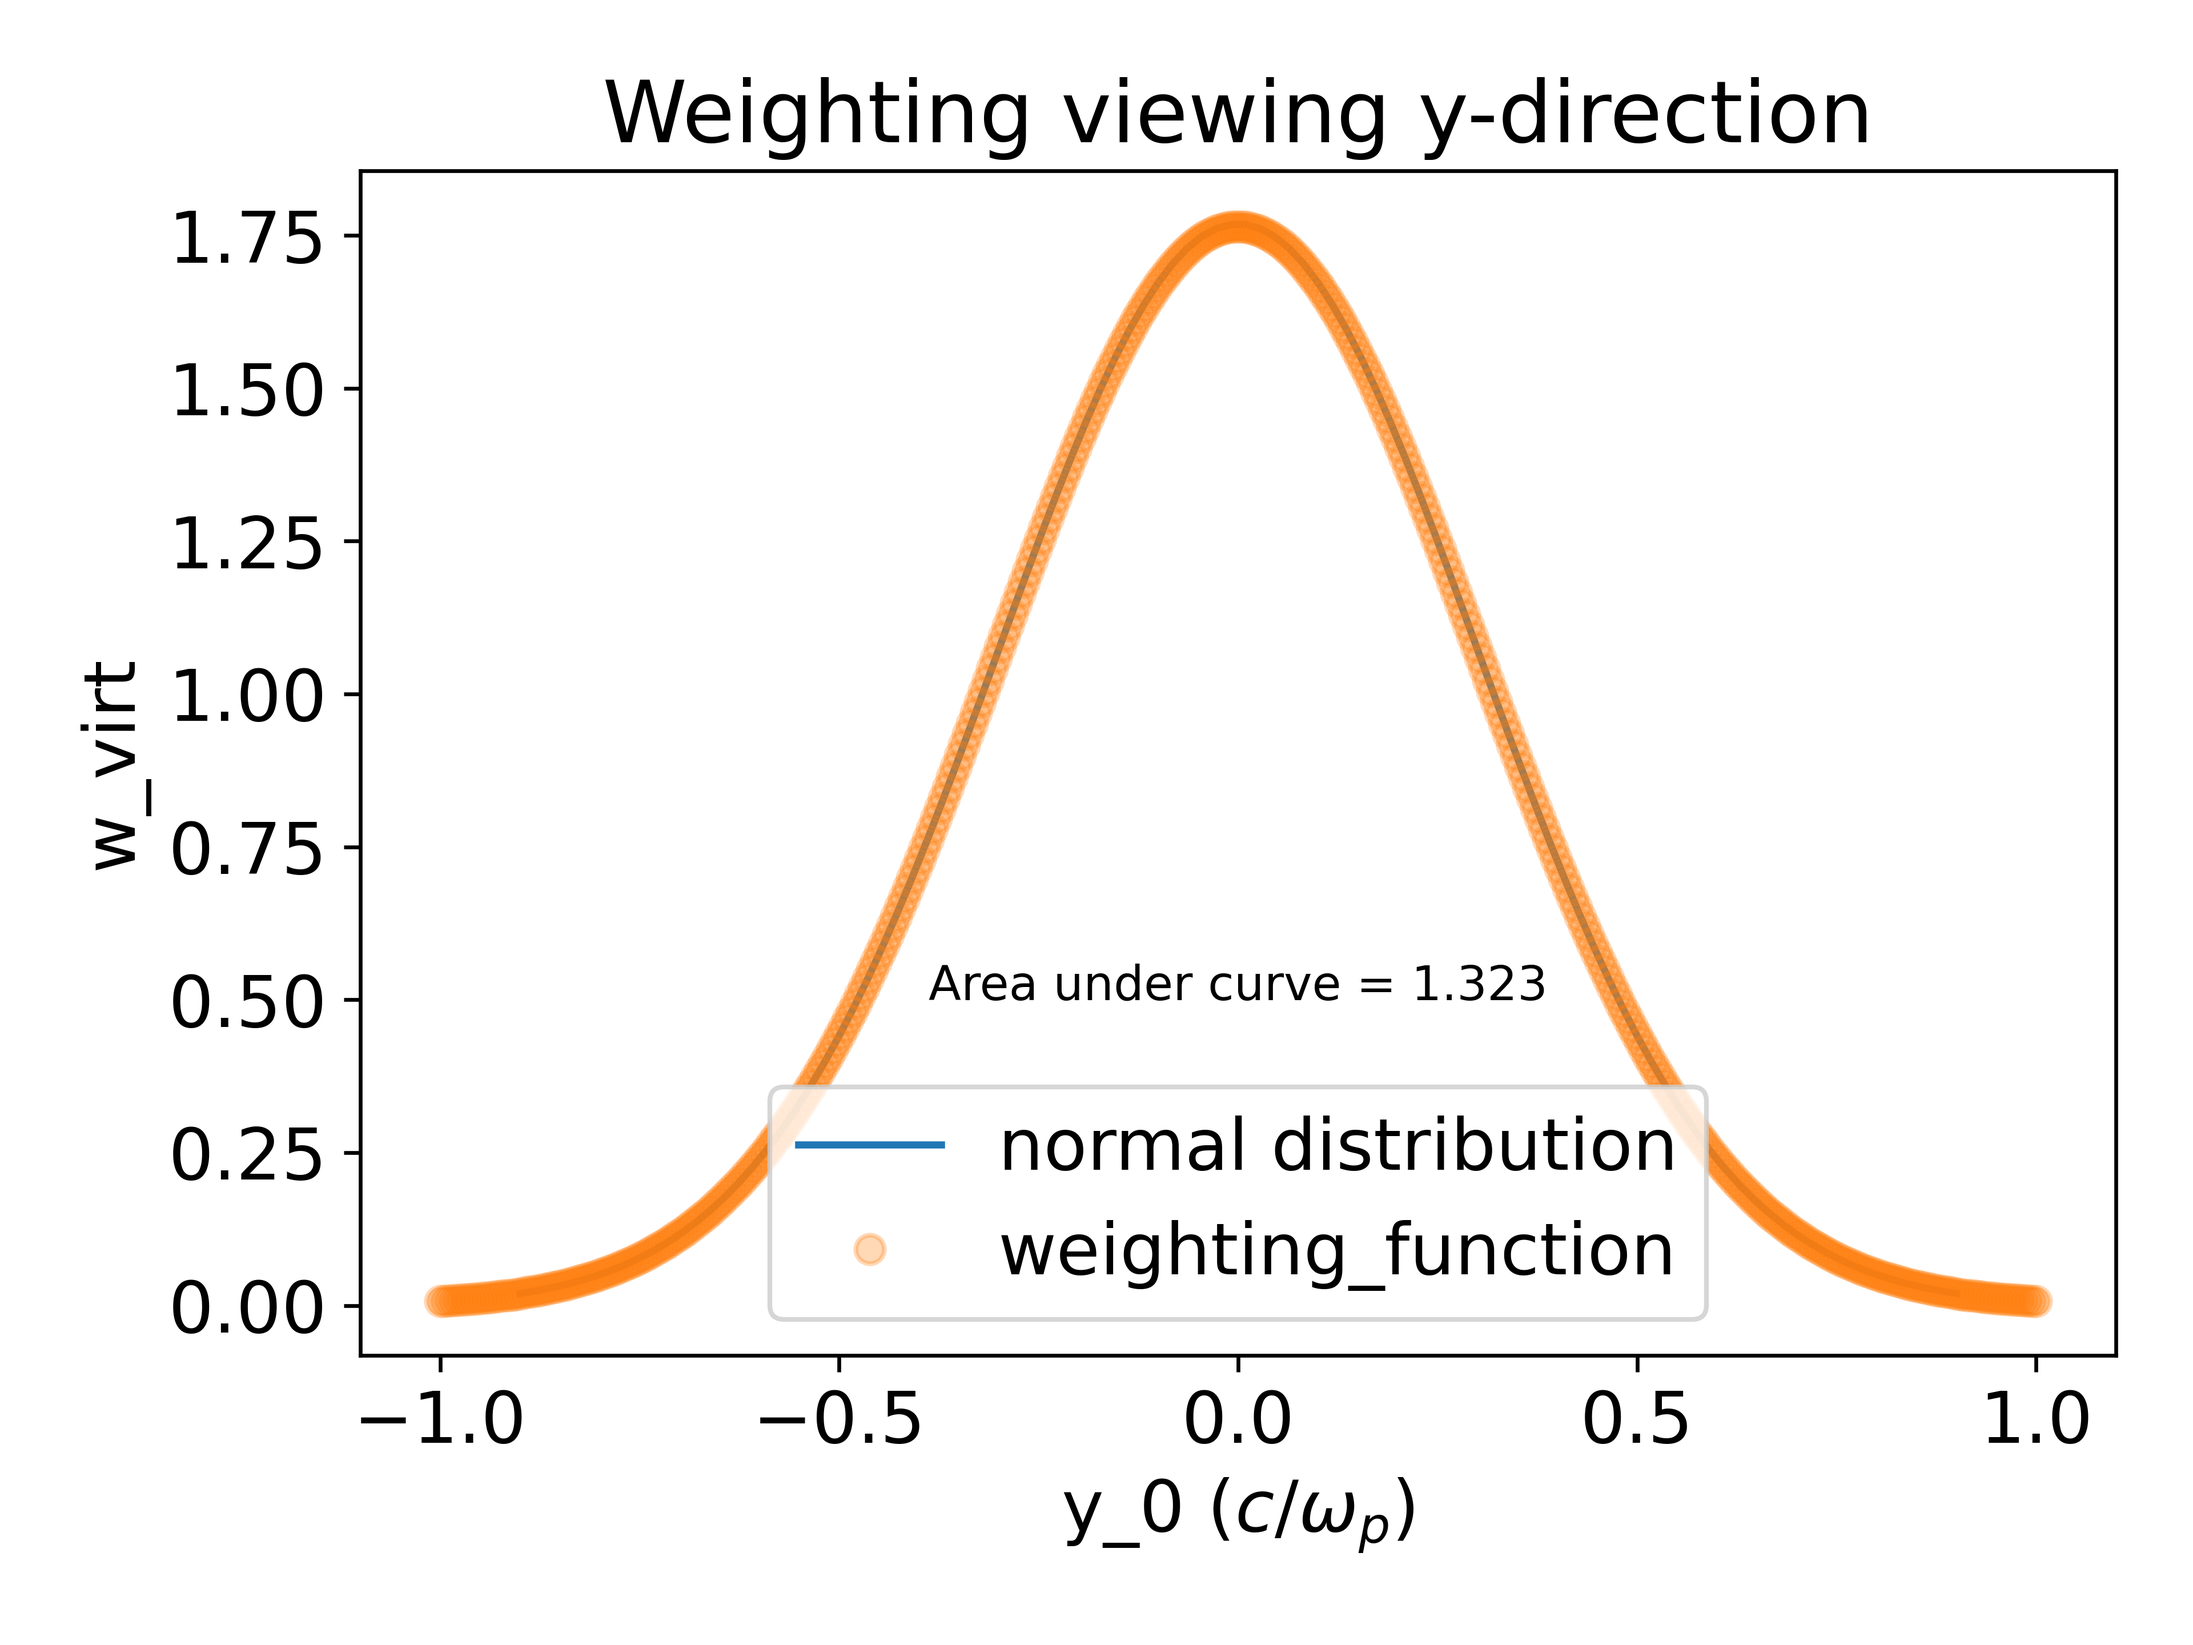
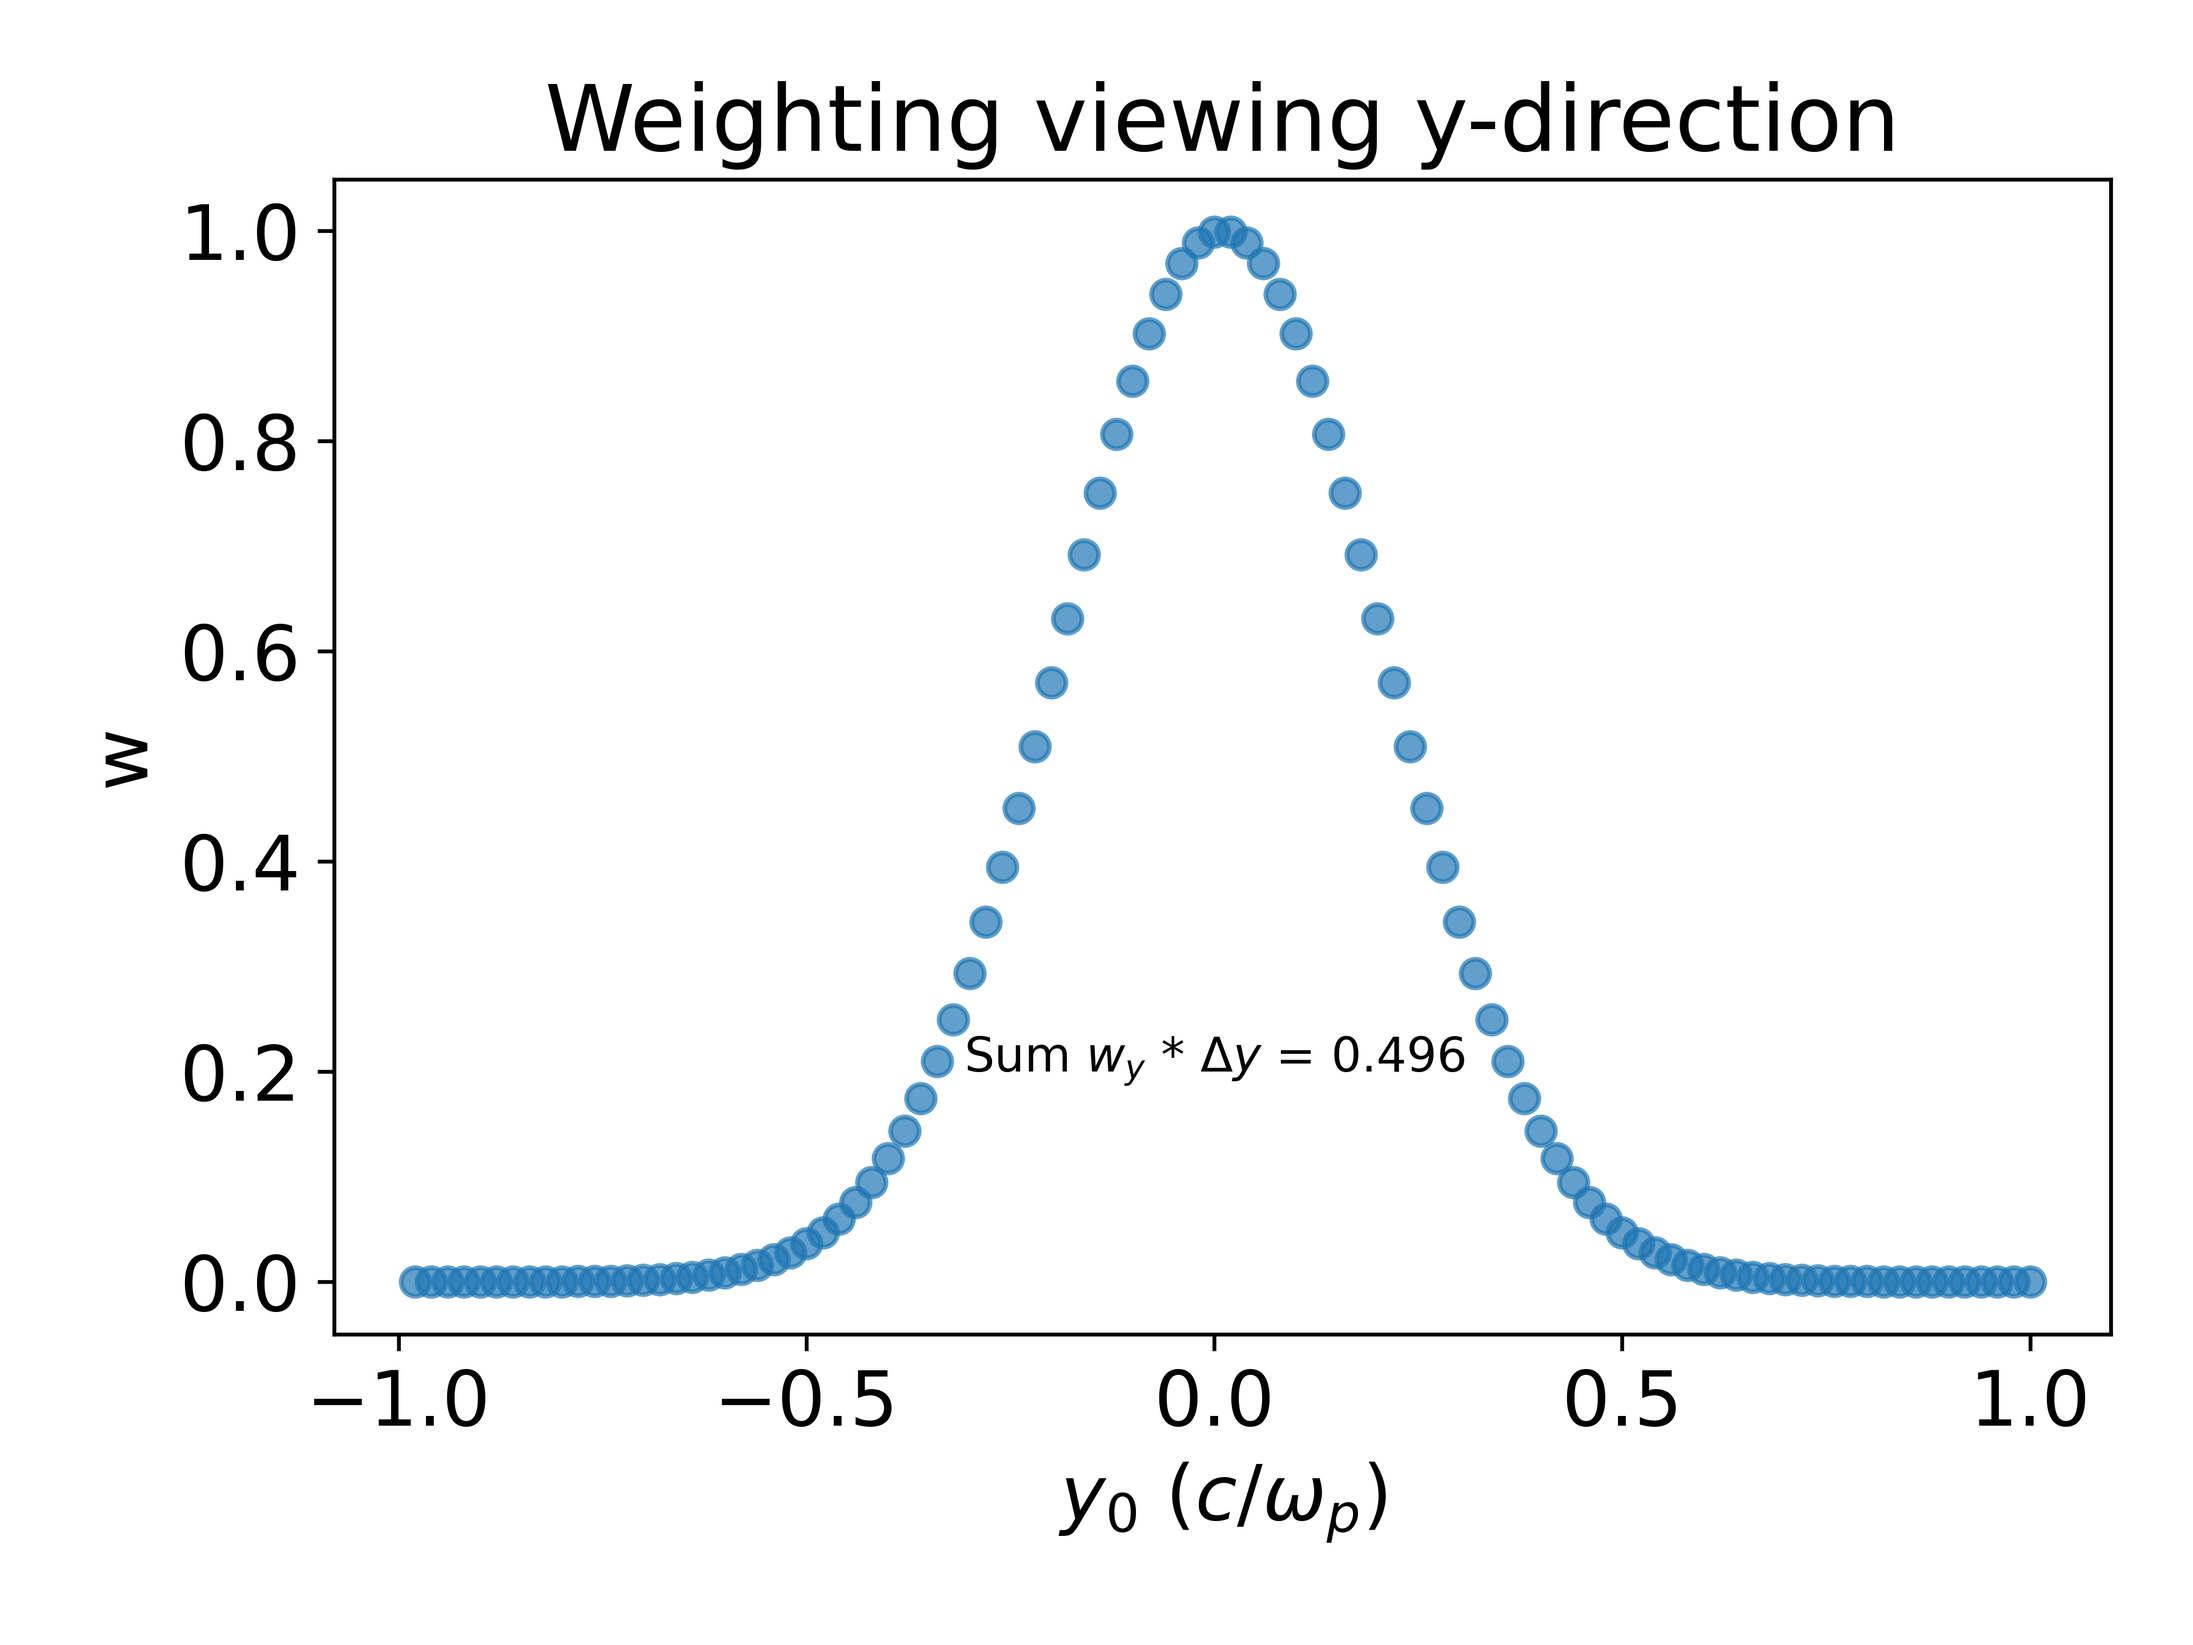
Update to new weighting
Fixes bug with new weighting and masking code. Gaussian weighting appears to be working now. Test 000050 is a 100x100x100 test to use for testing new weighting.

IMPORTANT: movieWriter references have been commented out due to the lack of opencv package on current machine.

diff --git a/include/plotWeights.py b/include/plotWeights.py
@@ -11,7 +11,6 @@ import math
 import copy
 import time
 import progressbar
-import include.movieWriter as movieWriter
 import multiprocessing as mp
 import include.simulations.useQuasi3D as sim
 mpl.use('Agg')
@@ -42,20 +41,20 @@ def returnZ(xi):
 
 
 
-def plotx(w, x_0, y_0, xi_0, z_0, s1, s2, beamx_c,beamy_c,beamxi_c,sigma_x,sigma_y,sigma_xi):
+def plotx(w, x_0, y_0, xi_0, z_0, s1, s2, xidensity_, xdensity, ydensity, xidensity):
 # Plot w (w_x) vs xi
     ##########################################################################################
     fig3 = plt.figure()
     ax3 = fig3.add_subplot(111)
-     
-    ax3.plot(xi_0,w,"o", label="weighting_function",alpha=0.7)
+    
+    ax3.plot(xi_0[int(xidensity_*(ydensity/2)+49):int(xidensity_*(ydensity/2)+xidensity_-50)],w,"o", label="weighting_function",alpha=0.7)
     
     #ax3.legend(loc='upper right')
-    ax3.set_xlabel("xi_0 ($c/\omega_p$)")
-    ax3.set_ylabel("w_x")
-    ax3.set_title("Weighting viewing xi-direction")
+    ax3.set_xlabel("$\\xi_0$ ($c/\omega_p$)")
+    ax3.set_ylabel("w")
+    ax3.set_title("Weighting for x viewing $\\xi$-direction")
 
-    Deltax = 2*s2
+    Deltax = 2*s2/xidensity #same as xstep
     summ = 0
     for w_x in w:
         summ += w_x*Deltax
@@ -65,20 +64,20 @@ def plotx(w, x_0, y_0, xi_0, z_0, s1, s2, beamx_c,beamy_c,beamxi_c,sigma_x,sigma
 
     fig3.savefig('weights_x-xi-direction.png',dpi=600,transparent=False)
 
-def ploty(w, x_0, y_0, xi_0, z_0, s1, s2, beamx_c,beamy_c,beamxi_c,sigma_x,sigma_y,sigma_xi):
+def ploty(w, x_0, y_0, xi_0, z_0, s1, s2, xidensity_, xdensity, ydensity, xidensity):
 # Plot w (w_x) vs xi
     ##########################################################################################
     fig4 = plt.figure()
     ax4 = fig4.add_subplot(111)
-     
-    ax4.plot(y_0,w,"o", label="weighting_function",alpha=0.7)
+
+    ax4.plot(y_0[50:len(y_0):xidensity_],w,"o", label="weighting_function",alpha=0.7)
     
     #ax3.legend(loc='upper right')
-    ax4.set_xlabel("y_0 ($c/\omega_p$)")
-    ax4.set_ylabel("w_y")
+    ax4.set_xlabel("$y_0$ ($c/\omega_p$)")
+    ax4.set_ylabel("w")
     ax4.set_title("Weighting viewing y-direction")
 
-    Deltay = 2*s1/len(w)
+    Deltay = 2*s1/ydensity
     summ = 0
     for w_y in w:
         summ += w_y*Deltay
@@ -86,21 +85,21 @@ def ploty(w, x_0, y_0, xi_0, z_0, s1, s2, beamx_c,beamy_c,beamxi_c,sigma_x,sigma
 
     plt.tight_layout()
 
-    fig4.savefig('weights_y-sum-direction.png',dpi=600,transparent=False)
+    fig4.savefig('weights_y-direction.png',dpi=600,transparent=False)
 
 
-def plotxi(w, x_0, y_0, xi_0, z_0, s1, s2, beamx_c,beamy_c,beamxi_c,sigma_x,sigma_y,sigma_xi):
+def plotxi(w, x_0, y_0, xi_0, z_0, s1, s2, xidensity_, xdensity, ydensity, xidensity):
 # Plot w (w_xi) vs xi
     ##########################################################################################
     fig5 = plt.figure()
     ax5 = fig5.add_subplot(111)
      
-    ax5.plot(xi_0,w,"o", label="weighting_function",alpha=0.7)
+    ax5.plot(xi_0[int(xidensity_*(ydensity/2)+49):int(xidensity_*(ydensity/2)+xidensity_-50)],w,"o", label="weighting_function",alpha=0.7)
     
     #ax5.legend(loc='upper right')
-    ax5.set_xlabel("xi_0 ($c/\omega_p$)")
-    ax5.set_ylabel("w_xi")
-    ax5.set_title("Weighting viewing xi-direction")
+    ax5.set_xlabel("$\\xi_0$ ($c/\omega_p$)")
+    ax5.set_ylabel("w")
+    ax5.set_title("Weighting for $\\xi$ viewing $\\xi$-direction")
 
     Deltaxi = 2*s2/len(w)
     summ = 0
@@ -115,7 +114,7 @@ def plotxi(w, x_0, y_0, xi_0, z_0, s1, s2, beamx_c,beamy_c,beamxi_c,sigma_x,sigm
 
 
 
-def plotweightsxiy(y_f,xi_f, w, rand):
+def plotweightsxiy(y_0,xi_0, w, rand):
     
     path = os.getcwd()
     timestr = time.strftime("%Y%m%d-%H%M%S")
@@ -154,10 +153,10 @@ def plotweightsxiy(y_f,xi_f, w, rand):
     fig.suptitle("Xi-Y Weighting Map")
     plt.tight_layout(rect=[0, 0, 1, 0.9])
     
-    h = ax.hist2d(xi_f[:], y_f[:], weights=w[:], bins=(bin_edges_xi,bin_edges_y), cmap=cmap, vmin=vmin_,vmax=vmax_,cmin=cmin)#, norm=norm)
+    h = ax.hist2d(xi_0[:], y_0[:], weights=w[:], bins=[199,100])#, bins=(bin_edges_xi,bin_edges_y), cmap=cmap, vmin=vmin_,vmax=vmax_,cmin=cmin)#, norm=norm)
 
-    ax.set_ylim(ymin,ymax)
-    ax.set_xlim(ximin,ximax)
+    #ax.set_ylim(ymin,ymax)
+    #ax.set_xlim(ximin,ximax)
 
     if (WB):
         ax.set_facecolor('white')

diff --git a/index-mp.py b/index-mp.py
@@ -18,7 +18,7 @@ import include.plot2DTracks as plot2D
 import include.plot3DTracks as plot3D
 import include.findWaist as findWaist
 import multiprocessing as mp
-import include.movieWriter as movieWriter
+#import include.movieWriter as movieWriter
 import tqdm
 import pickle
 from DebugObjectModule import DebugObject
@@ -31,7 +31,7 @@ from random import randint
 # Weighting Options (Only applicable for showFullEvolution and makeFullAnimation plot):
 useWeights_x = True                 # Use weights in x-direction
 useWeights_y = True                 # Use weights in y-direction
-useWeights_xi = False                 # Use weights in xi-direction
+useWeights_xi = True                 # Use weights in xi-direction
 
 skipWeightingCalc = False            # Skip weighting calculation and use imported pre-calculated weights
 saveWeights = False                 # Save weights to .npz file (Remember to move to ./data directory!)
@@ -52,6 +52,7 @@ plotWeightsx = False                  # Plot w vs xi (ONLY for single line of pa
 plotWeightsy = False                  # Plot w vs y (ONLY for single line of particles in y-dir)
 plotWeightsxi = False                  # Plot w vs y (ONLY for single line of particles in xi-dir)
 plotWeightsxiy = True
+plotWeights3D = False
 
 
 # DEBUG PLOTTING
@@ -68,7 +69,7 @@ findW = False
 if __name__ == '__main__':
     # Start of main()
     # Initialize multiprocessing.Pool()
-    numberOfCores = mp.cpu_count() #8
+    numberOfCores = 2 #mp.cpu_count() #8
     print(f"Number of cores used for multiprocessing: {numberOfCores}")
     pool = mp.get_context('spawn').Pool(numberOfCores)
     if (len(sys.argv) >= 2):
@@ -171,7 +172,7 @@ if __name__ == '__main__':
 
             # Call weighting function getWeights 
             # Note: w_virt, xv, yv, xiv, only used for debugging purposes
-            w = weightmaskFunc.getWeights(beamx_c,beamy_c,beamxi_c,x_c,y_c,xi_c,s1,s2,xden,yden,xiden,res,sigma_x,sigma_y,sigma_xi,noObj,t0,useWeights_x,useWeights_y,useWeights_xi,useMasks_x,useMasks_xi,useMasks_y)    
+            w, w_export1, w_export2, w_export3, w_export4 = weightmaskFunc.getWeights(beamx_c,beamy_c,beamxi_c,x_c,y_c,xi_c,s1,s2,xden,yden,xiden,res,sigma_x,sigma_y,sigma_xi,noObj,t0,useWeights_x,useWeights_y,useWeights_xi,useMasks_x,useMasks_xi,useMasks_y)    
             
             t_w_end = time.localtime()
             curr_time_w_end = time.strftime("%H:%M:%S", t_w_end)
@@ -212,7 +213,7 @@ if __name__ == '__main__':
             print("MP PFC - DURATION: ", (time.time() - start_time_pfc)/60, " min\n")
             
             # Stitch frames into movie
-            movieWriter.generatemovie(fps,new_path)
+            #movieWriter.generatemovie(fps,new_path)
             
         if (writeHistData):
             writeHist.plot(x_f, y_f, xi_f, z_f, px_f, py_f, pz_f, sim_name, shape_name, noObj, iter)
@@ -228,6 +229,13 @@ if __name__ == '__main__':
 
         if (plotWeightsxiy):
             plotWeights.plotweightsxiy(y_0,xi_0, w, rand)
+        
+        if (plotWeights3D):
+            plotWeights.plotx(w_export1, x_0, y_0, xi_0, z_0, s1, s2, xiden+xden-1, xden, yden, xiden)
+            plotWeights.ploty(w_export2, x_0, y_0, xi_0, z_0, s1, s2, xiden+xden-1, xden, yden, xiden)
+            plotWeights.plotxi(w_export3, x_0, y_0, xi_0, z_0, s1, s2, xiden+xden-1, xden, yden, xiden)
+
+
 
         
         #if (saveMovie):

diff --git a/include/weighting_masks_function.py b/include/weighting_masks_function.py
@@ -51,6 +51,10 @@ def getWeights(beamx_c,beamy_c,beamxi_c,x_c,y_c,xi_c,s1,s2,xdensity,ydensity,xid
     w_xi, w_y = yxiMasks(useMasks_xi, useMasks_y, y_0, xi_0, w_xi, w_y)
 #-----------------------------------------------------------------------
 
+    w_export1 = []
+    w_export2 = w_y
+    w_export3 = w_xi
+
 # Loop through x layers to calculate weights with masks and add to 2D Y-Xi projection
     for i in progressbar.progressbar(range(0,len(x_0)), redirect_stout=False):
         start_time_weightcalc = time.time()
@@ -60,6 +64,8 @@ def getWeights(beamx_c,beamy_c,beamxi_c,x_c,y_c,xi_c,s1,s2,xdensity,ydensity,xid
 
         # Check for x mask
         w_x = xMasks(useMasks_x,x_0[i],w_x)
+
+        w_export1.append(w_x)
 
         # Weighting options evaluator for x-y
         if (useWeights_x) and (useWeights_y):
@@ -73,7 +79,7 @@ def getWeights(beamx_c,beamy_c,beamxi_c,x_c,y_c,xi_c,s1,s2,xdensity,ydensity,xid
 
         # Create final weighting list w to return
         # Maps 3d virtual particles in x-layer onto 2d Y-Xi projection appropriate location
-        for k in range(0,xidensity):
+        for k in range(0,len(xi_0)):
             # Multiply by xi weighting if in use
             if (useWeights_xi):
                 w_virt = w_xy * w_xi[k]
@@ -81,16 +87,19 @@ def getWeights(beamx_c,beamy_c,beamxi_c,x_c,y_c,xi_c,s1,s2,xdensity,ydensity,xid
                 w_virt = w_xy
             
             # Loop through y layers and apply weighting in appropriate location
-            for j in range(0,ydensity):
+            for j in range(0,len(y_0)):
                 w[xidensity_ * j + k + i] += w_virt[j]
-        
+
         # Delete/Deallocate arrays for memory conservation
         w_x = None
         w_virt = None
         w_xy = None
 
+    w_export1 = np.array(w_export1)
+    w_export4 = w[int(xidensity_*(ydensity/2)):int(xidensity_*(ydensity/2)+xidensity_)]
+    #np.savez("weight-exports.npz", w_exportx=w_export1, w_exporty=w_export2, w_exportxi=w_export3, w_exportvirt=w_export4)
     
-    return w
+    return w, w_export1, w_export2, w_export3, w_export4
 
 def yxiMasks(useMasks_xi, useMasks_y, y_0, xi_0, w_xi, w_y):
     if (useMasks_xi):

diff --git a/input/000050_weighting_test.py b/input/000050_weighting_test.py
@@ -1,0 +1,36 @@
+# Here is where the initial conditions of the electron probe are defined
+# This filename is the input parameter of the eProbe.py file
+
+
+simulation_name = 'QUASI3D'
+shape = 'rprism_weighted_after'
+# dt = 0.005, 150000
+iterations = 500000
+mode = -1
+fname = "000050_weighting_test.npz"
+debugmode= False
+
+# Probe centered at the following initial coordinates (in c/w_p):
+x_c = 2.4 # Start at ending position
+y_c = 0
+xi_c = -13
+
+# Initial momentum
+px_0 = 110 # Make sure it goes towards the screen!
+py_0 = 0
+pz_0 = 0
+
+# Screen Distances (from z-axis of plasma cell, in mm):
+#x_s = [100, 200, 300, 400, 500] # Only 5
+x_s = [10, 50, 100, 250, 500]
+
+# Shape Parameters (Radius or Side Length, in c/w_p):
+s1 = 1 # In y
+s2 = 10 # In xi
+
+# Densities
+ydensity = 100
+xidensity = 100
+xdensity =  100 #This effectively creates the number of layers in x direction
+resolution = 0.002
+

diff --git a/input/000050_weighting_test-w.py b/input/000050_weighting_test-w.py
@@ -1,0 +1,11 @@
+# Here is where the initial conditions of the electron beam are defined
+
+# Beam centered at the following initial coordinates (in c/w_p):
+beamx_c = 2.4 # Start within region of field # -2.4 = "maximum" x_c
+beamy_c = 0.0
+beamxi_c = -13.0
+
+# Beam spreads (in c/w_p):
+sigma_x = 2
+sigma_y = 0.2
+sigma_xi = 2

diff --git a/include/makeFullAnimation.py b/include/makeFullAnimation.py
@@ -11,7 +11,7 @@ import math
 import copy
 import time
 import progressbar
-import include.movieWriter as movieWriter
+#import include.movieWriter as movieWriter
 import multiprocessing as mp
 import include.simulations.useQuasi3D as sim
 
